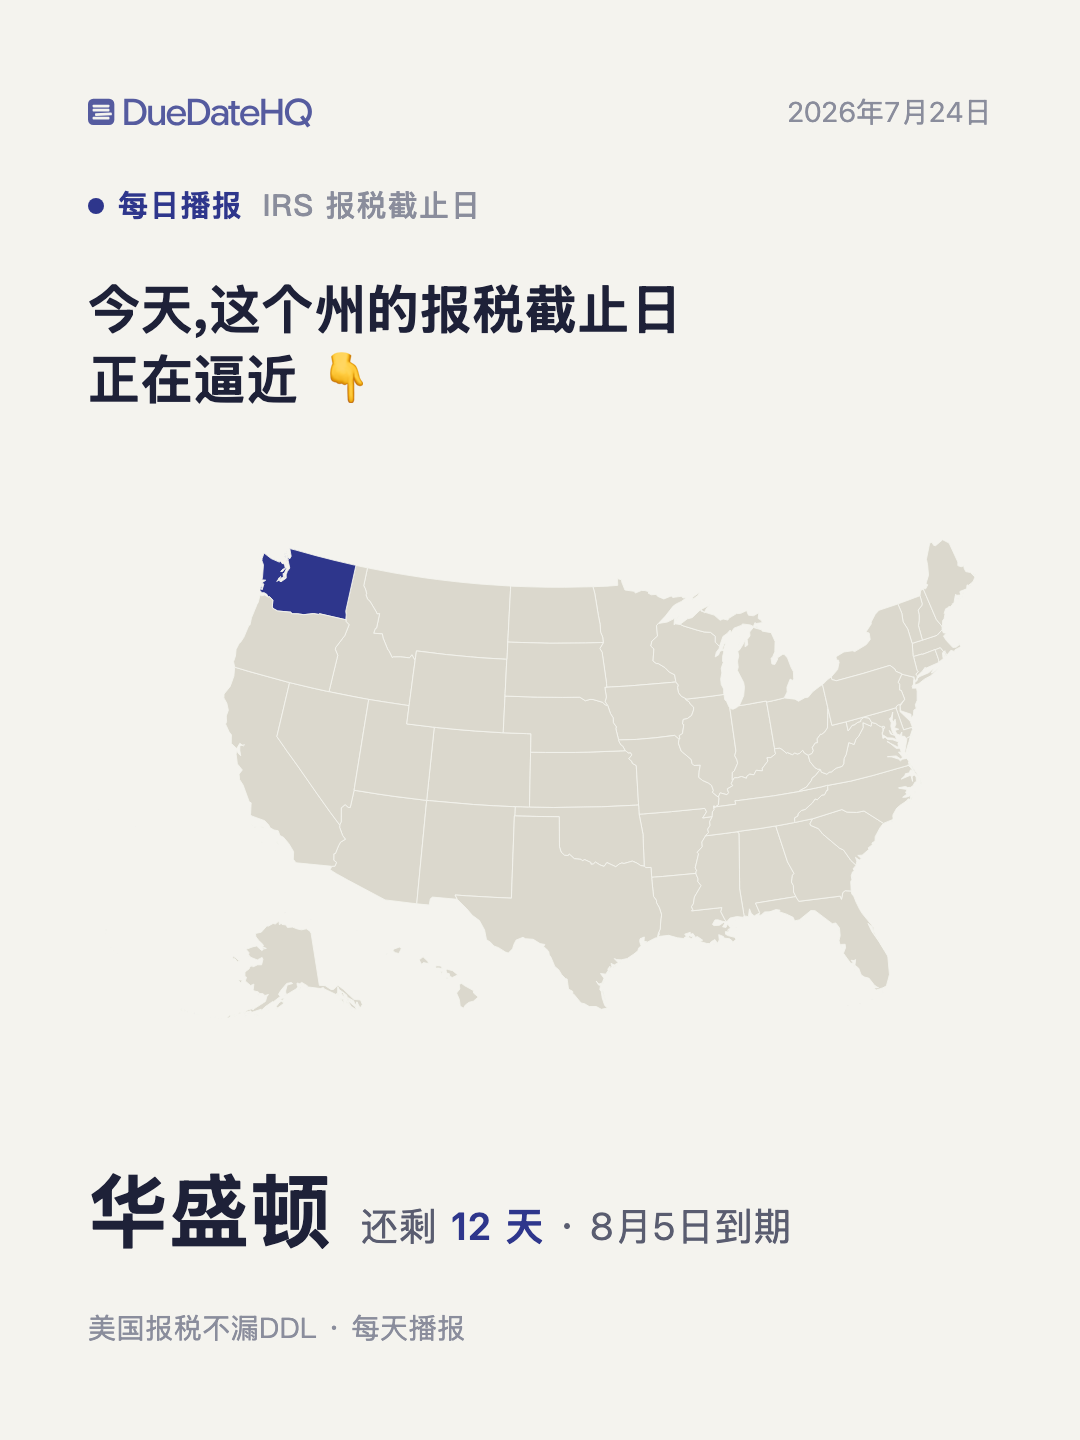
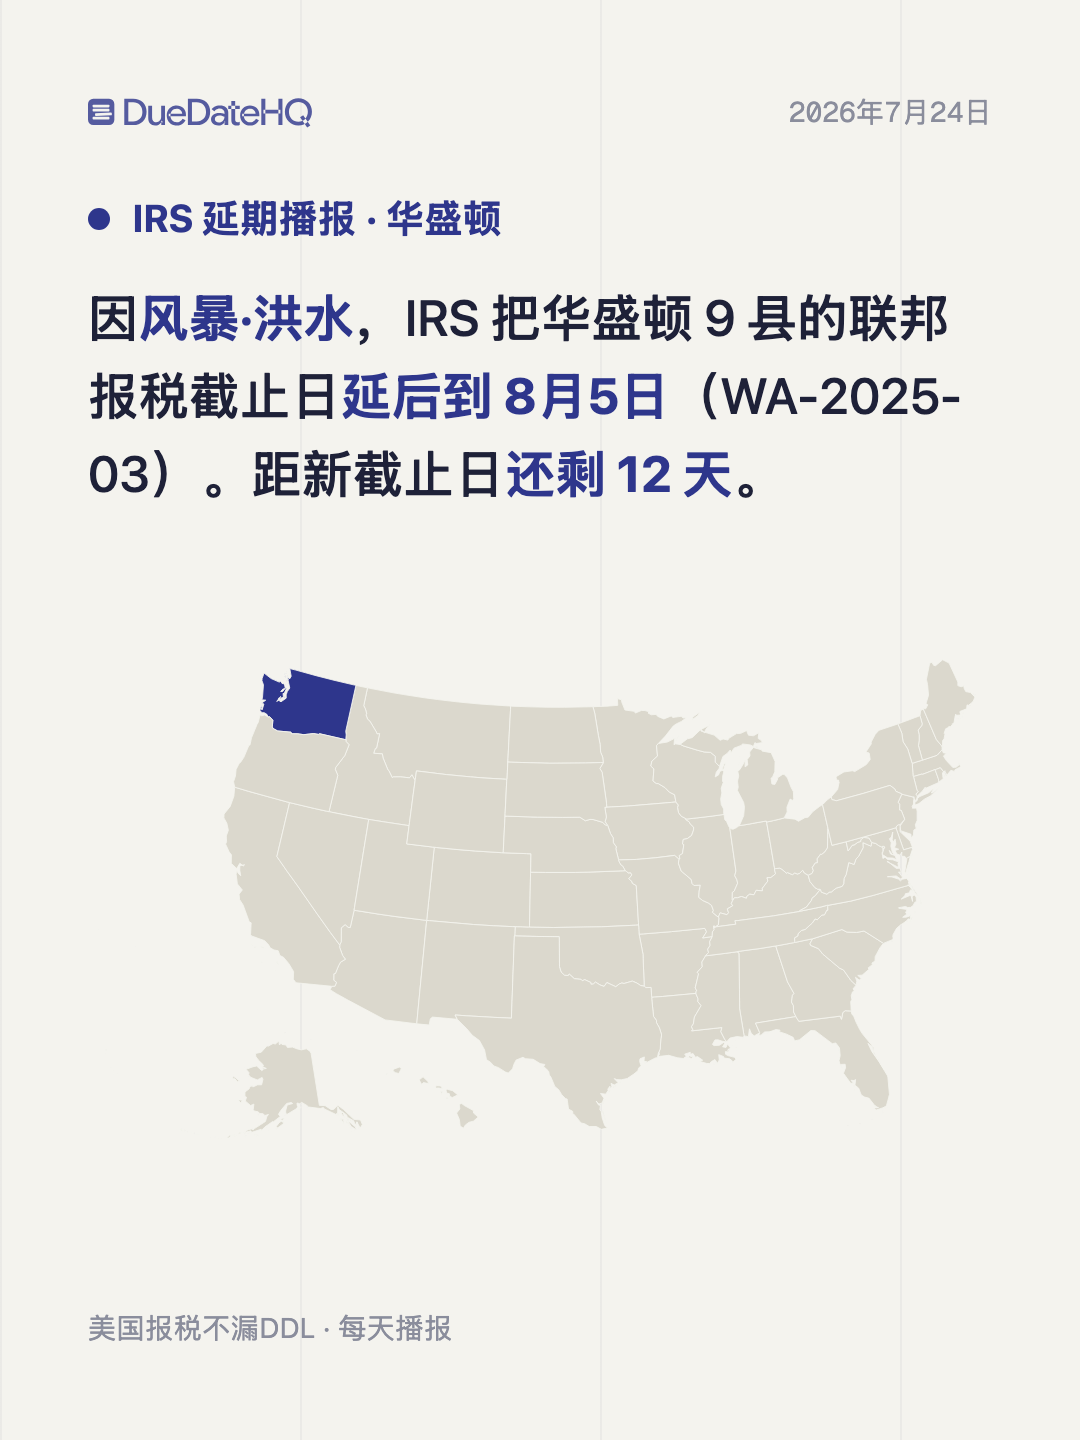
feat(broadcast): alert-first daily post — map cover with full alert sentence + context
Every daily post is now a complete IRS alert, not a decontextualized countdown:
- NEW map cover: 'IRS 延期播报 · <state>' + one full alert sentence (因<disaster>, IRS
  postponed <state> N counties' federal deadline to <date> (<code>). N days left) over
  a US map with the state highlighted.
- Detail card facts reframed alert-first (why postponed + code, new deadline + counties).
- Captions reframed as alert bulletins (CN + EN) with disaster context + 'follow for
  daily IRS alerts' CTA.
- Disaster event auto-translated to CN/EN phrases; US map vendored (simplemaps).

diff --git a/docs/marketing/xiaohongshu/broadcast/PACK-2026-07-24.md b/docs/marketing/xiaohongshu/broadcast/PACK-2026-07-24.md
@@ -2,17 +2,21 @@
 
 自检溢出：小红书 0px / LinkedIn 0px（应为 0）
 
-## 小红书图：`broadcast/xhs-2026-07-24.png`（1080×1440）
+## 小红书（图1 封面 + 图2 详情）
 
-【标题】倒计时12天⏰华盛顿报税DDL要到了
+封面：`broadcast/cover-2026-07-24.png`（地图·高亮州）
+详情：`broadcast/xhs-2026-07-24.png`（1080×1440）
 
-手上有华盛顿客户的注意：8月5日，这 9 个县的联邦报税截止日就到了（灾害延期 WA-2025-03）。
+【标题】华盛顿报税截止日已延至8月5日，还剩12天⏰
+
+华盛顿有客户的注意：因风暴·洪水，IRS 早前把华盛顿 9 个县的联邦报税截止日延后到了 8月5日（灾害延期 WA-2025-03）——现在距新截止日只剩 12 天。
 
 📌 延期按 address of record 自动生效——先逐个核对客户地址
-📌 覆盖个人/公司/合伙/信托/工资税/预估税等，窗口内到期的一并顺延
+📌 覆盖个人/公司/合伙/信托/工资税/预估税 等
 📌 下一批：佐治亚 · 夏威夷 8月20日
 
-收藏，报税季不漏单👇 #美国报税 #CPA #EA #在美华人 #税务 #报税季
+我每天播报 IRS 报税延期 alert，关注不漏单👇
+#美国报税 #CPA #EA #在美华人 #税务 #报税季
 
 ---
 
@@ -20,7 +24,7 @@
 
 📅 IRS Deadline Daily — Jul 24
 
-The soonest active IRS disaster-relief deadline is 12 days out: 9 Washington counties have until Aug 5 to file federal returns (relief WA-2025-03). Next up: Georgia & Hawaii on Aug 20.
+Washington: after storms and flooding, the IRS postponed federal filing deadlines for 9 counties to Aug 5 (relief WA-2025-03) — now 12 days away. Next up: Georgia & Hawaii on Aug 20.
 
 11 reliefs are active right now across 9 states + 1 territory. If you have clients there, check their counties.
 
